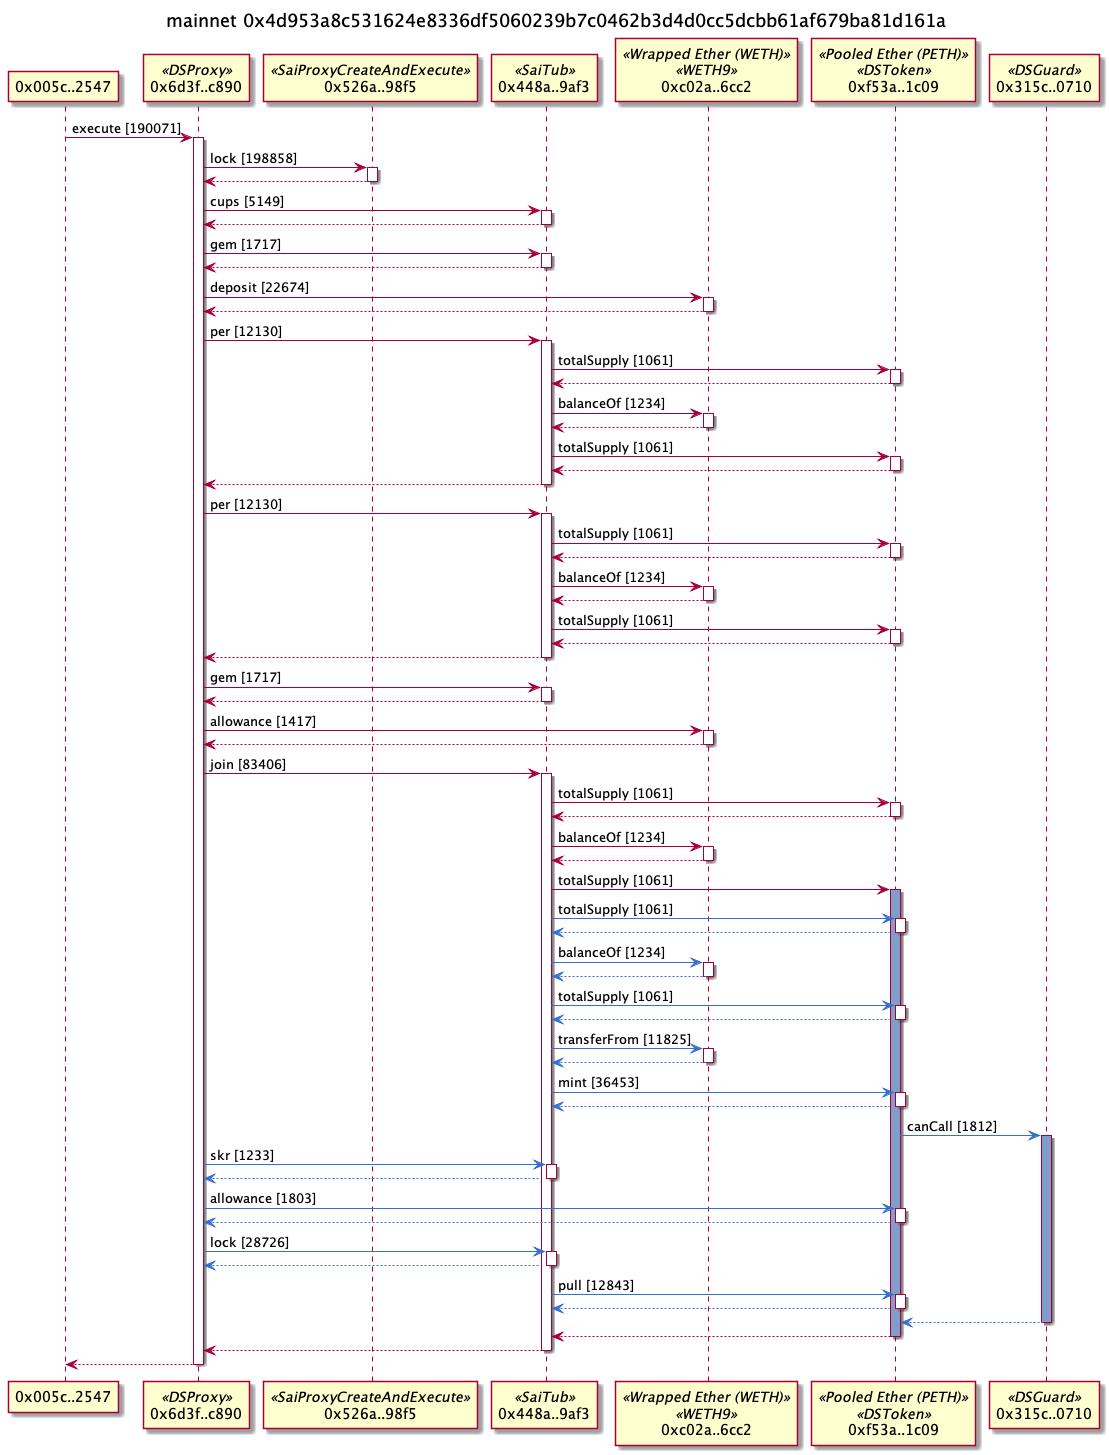
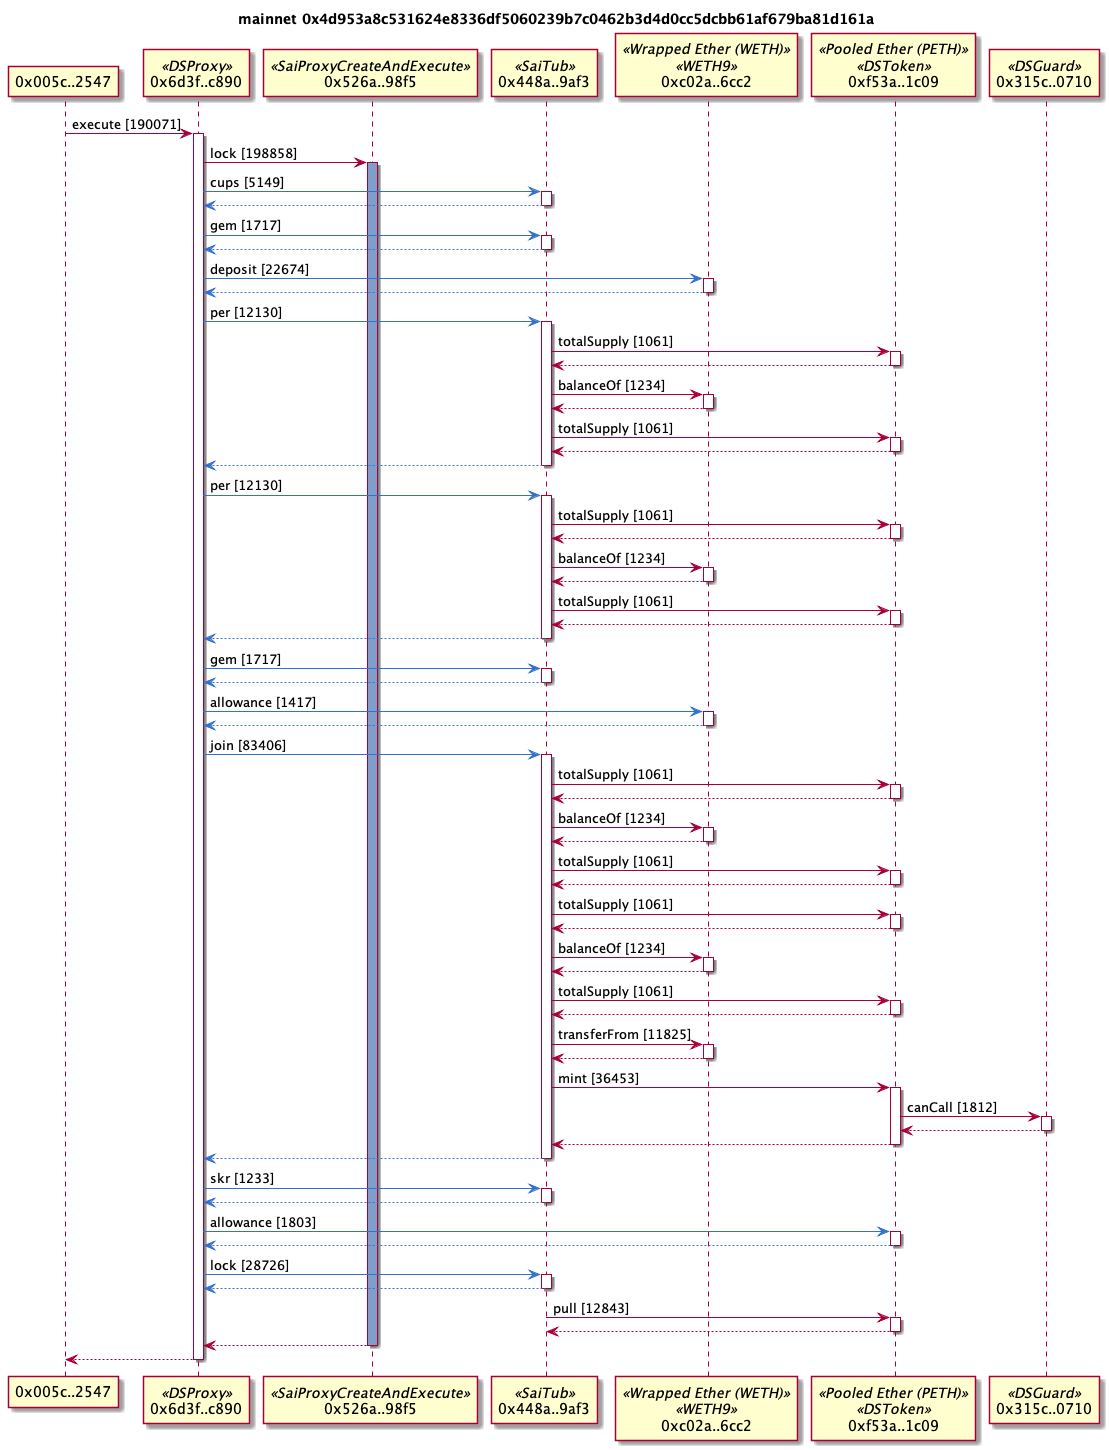
Fixed logic for detecting delegate transactions

diff --git a/src/ts/plantUmlGenerator.ts b/src/ts/plantUmlGenerator.ts
@@ -76,7 +76,6 @@ export const genMessages = (
     return ""
   }
   let contractCallStack: Message[] = []
-  let delegateMessages: { [parentId: string]: number } = {}
   let previousMessage: Message | undefined
   let plantUml = "\n"
   // for each contract message
@@ -86,54 +85,41 @@ export const genMessages = (
         message.from
       )}, to ${shortAddress(message.to)}, ${message?.payload?.funcName} [${
         message.gasUsed
-      }] ${message?.payload?.funcSelector}, type ${message.type}`
+      }] ${message?.payload?.funcSelector}, type ${
+        message.type
+      }, delegated call ${message.delegatedCall?.id} last ${
+        message.delegatedCall?.last
+      }`
     )
     // return from lifeline if processing has moved to a different contract
-    if (previousMessage && message.from !== previousMessage.to) {
-      // don't return if this message is the first delegate call
-      // this return will be moved to once all the delegate calls have been generated
-      if (message.parentId && !delegateMessages[message.parentId]) {
-        // replace old activate lifeline line with coloured activate lifeline for the previous delegate call
-        plantUml = plantUml.replace(/\n.*\n$/, "\n")
-        plantUml += `activate ${participantId(
-          previousMessage.to
-        )} ${DelegateLifelineColor}\n`
-
-        // Remove previous delegate call from the call stack as we'll handle the delegate lifeline separately
+    // except when the previous message was a delegatecall
+    if (
+      previousMessage &&
+      message.from !== previousMessage.to &&
+      previousMessage.type !== MessageType.Delegatecall
+    ) {
+      // reserve() is mutable so need to copy the array wih a spread operator
+      const reservedCallStack = [...contractCallStack].reverse()
+      for (const callStack of reservedCallStack) {
+        plantUml += genEndLifeline(callStack)
         contractCallStack.pop()
-
-        // remember the last call in the delegated lifeline
-        const lifelineMessages = messages.filter(
-          m => m.parentId === message.parentId
-        )
-        // get the id of the last delegate message
-        delegateMessages[message.parentId] = lifelineMessages.slice(-1)[0].id
-      } else {
-        // reserve() is mutable so need to copy the array wih a spread operator
-        const reservedCallStack = [...contractCallStack].reverse()
-        for (const callStack of reservedCallStack) {
-          plantUml += genEndLifeline(callStack)
-          contractCallStack.pop()
-          // stop returns when the callstack is back to this message's lifeline
-          if (message.from === callStack.from) {
-            break
-          }
+        // stop returns when the callstack is back to this message's lifeline
+        if (message.from === callStack.from) {
+          break
         }
       }
     }
 
-    // if the previous message was the last delegated message
-    if (
-      previousMessage &&
-      previousMessage.id === delegateMessages[previousMessage?.parentId]
-    ) {
+    // if the previous message was the last delegated call
+    if (previousMessage?.delegatedCall?.last) {
       // return from the delegated lifeline
       plantUml += "return\n"
     }
 
     if (
       message.type === MessageType.Call ||
-      message.type === MessageType.Create
+      message.type === MessageType.Create ||
+      message.type === MessageType.Delegatecall
     ) {
       // output call message
       plantUml += `${participantId(message.from)} ${genArrow(
@@ -142,9 +128,15 @@ export const genMessages = (
         message.payload,
         options.params
       )}${genGasUsage(message, options.gas)}\n`
-      plantUml += `activate ${participantId(message.to)}\n`
 
-      contractCallStack.push(message)
+      if (message.type === MessageType.Delegatecall) {
+        plantUml += `activate ${participantId(
+          message.to
+        )} ${DelegateLifelineColor}\n`
+      } else {
+        plantUml += `activate ${participantId(message.to)}\n`
+        contractCallStack.push(message)
+      }
     } else if (message.type === MessageType.Value) {
       // convert wei to Ethers which is to 18 decimal places
       const ethers = new BigNumber(message.value.toString()).div(
@@ -157,7 +149,9 @@ export const genMessages = (
         options.gas
       )}\n`
       // we want to avoid a return in the next loop so setting previous message from field so no returns are printed
-      previousMessage.to = message.from
+      if (previousMessage) {
+        previousMessage.to = message.from
+      }
       continue
     } else if (message.type === MessageType.Selfdestruct) {
       plantUml += `return selfdestruct\n`
@@ -189,7 +183,9 @@ const genEndLifeline = (message: Message): string => {
 }
 
 const genArrow = (message: Message): string => {
-  const delegateColor = message.parentId ? `[${DelegateMessageColor}]` : ""
+  const delegateColor = isNaN(message.delegatedCall?.id)
+    ? ""
+    : `[${DelegateMessageColor}]`
   if (message.type === MessageType.Call) {
     return `-${delegateColor}>`
   }

diff --git a/src/ts/AlethioClient.ts b/src/ts/AlethioClient.ts
@@ -147,12 +147,7 @@ export const getContractMessages = async (
       )
     }
 
-    // sort by contract message id
-    const sortedMessages = messages.sort((a, b) => a.id - b.id)
-
-    debug(`Sorted ${sortedMessages.length} messages in total from Alethio`)
-
-    return sortedMessages
+    return identifyDelegateCalls(messages)
   } catch (err) {
     throw new VError(
       err,
@@ -197,11 +192,16 @@ const getContractMessagesRecursive = async (
     }
 
     for (const contractMessage of response.data.data) {
+      const parentId = contractMessage.relationships.parentContractMessage?.data?.id
+        ?.split(":")
+        ?.pop()
+
       cursorMessages.push({
         id: contractMessage.attributes.cmsgIndex,
         type: convertType(contractMessage.attributes.msgType),
         from: contractMessage.relationships.from.data.id,
         to: contractMessage.relationships.to.data.id,
+        parentId: parentId ? parseInt(parentId) : parentId,
         value: BigInt(contractMessage.attributes.value),
         payload: contractMessage.attributes.msgPayload,
         gasUsed: BigInt(contractMessage.attributes.msgGasUsed),
@@ -229,6 +229,55 @@ const getContractMessagesRecursive = async (
     throw new VError(
       err,
       `Failed to get contract messages for transaction hash ${txHash} from Alethio`
+    )
+  }
+}
+
+// identifies delegate calls where the parent's to does NOT equal the child's from
+// sets the message type on the delegatecall messages and delegatedCall on the child messages
+const identifyDelegateCalls = (messages: Message[]): Message[] => {
+  try {
+    // sort by contract message id
+    messages = messages.sort((a, b) => a.id - b.id)
+    const delegateCounts: { [parentId: number]: number } = {}
+    messages.forEach((message, i) => {
+      if (!isNaN(message.parentId)) {
+        // if message's from not equal to parent's to
+        if (messages[i].from !== messages[message.parentId - 1].to) {
+          messages[message.parentId - 1].type = MessageType.Delegatecall
+          if (!delegateCounts[message.parentId]) {
+            delegateCounts[message.parentId] = 0
+          }
+          messages[i].delegatedCall = {
+            id: delegateCounts[message.parentId]++,
+            last: false
+          }
+        }
+      }
+    })
+
+    // set the last child delegated call
+    const delegateCallIds: number[] = Object.keys(delegateCounts).map(id =>
+      parseInt(id)
+    )
+    for (const parentId of delegateCallIds) {
+      const delegatedCalls = messages.filter(m => m.parentId === parentId)
+      const lastCallId = delegatedCalls[delegatedCalls.length - 1].id
+      messages[lastCallId - 1].delegatedCall.last = true
+      debug(
+        `id ${parentId} is a delegatecall. Last child call has id ${lastCallId}`
+      )
+    }
+
+    debug(
+      `${messages.length} messages in total from Alethio. ${delegateCallIds.length} delegate calls`
+    )
+
+    return messages
+  } catch (err) {
+    throw new VError(
+      err,
+      `Failed to initialise the ${messages.length} Alethio messages.`
     )
   }
 }

diff --git a/src/ts/__tests__/AlethioClient.test.ts b/src/ts/__tests__/AlethioClient.test.ts
@@ -3,7 +3,7 @@ import {
   getToken,
   getTransactionDetails
 } from "../AlethioClient"
-import { getTransaction } from "../transaction"
+import { getTransaction, MessageType } from "../transaction"
 
 jest.setTimeout(60000) // timeout for each test in milliseconds
 
@@ -19,7 +19,7 @@ describe("Alethio parser", () => {
       ).toEqual("OneInchExchange")
       expect(messages).toHaveLength(95)
       expect(messages[0].gasLimit).toEqual(BigInt(996456))
-    })
+    }, 100000)
     test("get success transaction", async () => {
       const [tx, firstMessage] = await getTransactionDetails(
[1 lines of base64/hex data omitted]
@@ -40,6 +40,14 @@ describe("Alethio parser", () => {
       expect(messages[0].value).toEqual(BigInt(0))
       expect(messages[0].gasLimit).toEqual(BigInt(466557))
       expect(messages[0].gasUsed).toEqual(BigInt(114411))
+      expect(messages[7].type).toEqual(MessageType.Delegatecall)
+      expect(messages[8].delegatedCall?.id).toEqual(0)
+      expect(messages[8].delegatedCall?.last).toBeFalsy()
+      expect(messages[9].delegatedCall?.id).toEqual(1)
+      expect(messages[10].delegatedCall?.id).toEqual(2)
+      expect(messages[10].delegatedCall?.last).toBeTruthy()
+      // FIXME seems like an Alethio bug
+      expect(messages[9].type).toEqual(MessageType.Value)
     })
   })
 

diff --git a/src/ts/__tests__/plantUmlGenerator.test.ts b/src/ts/__tests__/plantUmlGenerator.test.ts
@@ -485,7 +485,8 @@ describe("Plant UML generator", () => {
           payload: {
             ...basePayload,
             funcName: "delegate call"
-          }
+          },
+          type: MessageType.Delegatecall
         },
         {
           ...baseMessage,
@@ -496,6 +497,10 @@ describe("Plant UML generator", () => {
           payload: {
             ...basePayload,
             funcName: "1st delegated call from 0x2222..3333"
+          },
+          delegatedCall: {
+            id: 0,
+            last: false
           }
         },
         {
@@ -517,6 +522,10 @@ describe("Plant UML generator", () => {
           payload: {
             ...basePayload,
             funcName: "2nd delegated call from 0x2222..3333"
+          },
+          delegatedCall: {
+            id: 1,
+            last: true
           }
         },
         {

diff --git a/src/ts/transaction.ts b/src/ts/transaction.ts
@@ -11,7 +11,8 @@ export enum MessageType {
   Value,
   Call,
   Create,
-  Selfdestruct
+  Selfdestruct,
+  Delegatecall
 }
 
 export type Param = {
@@ -27,13 +28,18 @@ export type Payload = {
   outputs: Param[]
 }
 
+export type DelegatedDetails = {
+  id: number // starts from 0
+  last: boolean
+}
+
 export type Message = {
   id: number
   type: MessageType
   from: string
   to: string
   parentId?: number
-  delegatedCall?: boolean
+  delegatedCall?: DelegatedDetails
   value: bigint
   payload?: Payload
   gasUsed: bigint

diff --git a/examples/README.md b/examples/README.md
@@ -18,9 +18,30 @@ In the sequence diagram, the lifeline of the delegated call will be in blue and 
 
 ![Delegate example](./delegate.png)
 
-## 0xUniverse
+## Uniswap with delegatecall
 
-Creating a sale auction on [0xUniverse](https://0xuniverse.com/).
+This is example is removing liquidity from the [Uniswap](https://uniswap.exchange/) MKR pool. The 69.75 ETH is a value transfer, not a contract call.
+This transaction is also a little tricky in the second `removeLiquidity` call is a `delegatecall`. The subsequent `balanceOf`, ETH transfer and `transfer` calls in blue are executed by the third contract but made to appear to be executed from the second contract. The ETH transfer is from the second contract even though the third contract executed the code. Execution that has been delegated is marked with a blue lifeline.
+
+```
+tx2uml 0xe5e35ee13bb6326df4da89f17504a81923299d4986de06a019ca7856cbe76bca -o uniswapMKRRemove
+```
+
+![UniswapMKRRemove](./uniswapMKRRemove.png)
+
+## Uniswap with create contract
+
+This [Uniswap](https://uniswap.exchange/) transaction creates a new market by creating a new exchange contract. The contract create message is the second message with the circle at the end of the array.
+
+```
+0xef0ef332690119a0174f26c3ce40edfd4e57d138bb5c95a081e3d66ee571e706 -g -o ./examples/uniswapFactory
+```
+
+![Uniswap Factory](./uniswapFactory.png)
+
+## 0xUniverse with delegated message
+
+Creating a sale auction on [0xUniverse](https://0xuniverse.com/). The last `transferFrom` message in blue is executed on the `0x64c2..4f2d` contract marked in blue, but the message context is from `0xe907..2d87`.
 
 ```
 tx2uml 0xadb825bb3b27e43688c2588243eceb3bb5256dbf48c798c85deae68a7e87d20b -g -o 0xUniverse
@@ -47,17 +68,6 @@ tx2uml 0x0a99314379caf3dcbbc6e1f5b0dda8a41e3a8b5a0d9b1c1ec744be1f1cf781ea -o fai
 ```
 
 ![failed](./failedTx.png)
-
-## Uniswap
-
-This is example is removing liquidity from the Uniswap MKR pool. The 69.75 ETH is a value transfer, not a contract call.
-This transaction is also a little tricky in the second `removeLiquidity` call is a `delegatecall`. The subsequent `balanceOf`, ETH transfer and `transfer` calls in blue are executed by the third contract but made to appear to be executed from the second contract. The ETH transfer is from the second contract even though the third contract executed the code. Execution that has been delegated is marked with a blue lifeline.
-
-```
-tx2uml 0xe5e35ee13bb6326df4da89f17504a81923299d4986de06a019ca7856cbe76bca -o uniswapMKRRemove
-```
-
-![UniswapMKRRemove](./uniswapMKRRemove.png)
 
 ## Kyber
 

diff --git a/README.md b/README.md
@@ -4,15 +4,15 @@
 
 [Unified Modeling Language (UML)](https://en.wikipedia.org/wiki/Unified_Modeling_Language) sequence diagram generator for Ethereum transaction.
 
-![Uniswap MKR remove](./examples/uniswapMKRRemove.png)
+![Maker DAO CDP](./examples/makerDao.png)
 
-See more examples under the [examples](./examples/README.md#example-uml-sequence-diagrams)
+See a lot more examples [here](./examples/README.md#example-uml-sequence-diagrams)
 
 # Install
 
 The following installation assumes [Node.js](https://nodejs.org/en/download/) has already been installed which comes with [Node Package Manager (NPM)](https://www.npmjs.com/).
 
-tx2uml needs [Java](https://www.java.com/en/download/) installed as that's required by [PlantUML](https://plantuml.com/) to generate the diagrams.
+`tx2uml` needs [Java](https://www.java.com/en/download/) installed as that's required by [PlantUML](https://plantuml.com/) to generate the diagrams.
 
 To install globally so you can run `tx2uml` from anywhere
 
